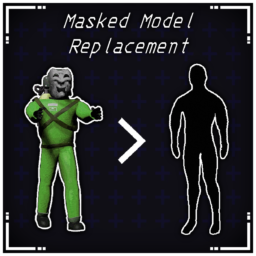
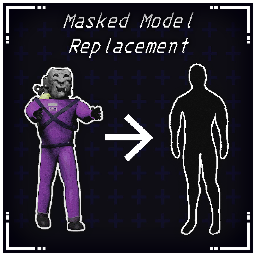
config file added

diff --git a/Patches/ModelReplacementPatch.cs b/Patches/ModelReplacementPatch.cs
@@ -43,27 +43,41 @@ namespace MaskedModelReplacement.Patches
                 var suitList = StartOfRound.Instance.unlockablesList.unlockables;
                 var allSuits = Resources.FindObjectsOfTypeAll<UnlockableSuit>()
                 .Where(suit => suit.IsSpawned)
+                .Where(suit => !MaskedModelReplacementBase.MaskedIgnoreSuits.Contains(suitList[suit.suitID].unlockableName.ToLower().Replace(" ", "")))
                 .ToArray();
-                int suitID = rand.Next(allSuits.Length);
 
-                string suitName = suitList[allSuits[suitID].suitID].unlockableName;
-                suitName = suitName.ToLower().Replace(" ", "");
+
                 
                 Dictionary<string, Type> regModelRepl = Traverse.Create(typeof(ModelReplacementAPI)).Field("RegisteredModelReplacements").GetValue() as Dictionary<string, Type>;
-                if (regModelRepl.ContainsKey(suitName))
+                    
+                if (MaskedModelReplacementBase.ModelReplacementsOnly)
                 {
-                    setReplacement = true;
-                    var hostPly = StartOfRound.Instance.allPlayerScripts[0];
-
-                    temporaryModel = hostPly.gameObject.AddComponent(regModelRepl[suitName]) as BodyReplacementBase;
-                    temporaryModel.suitName = suitName;
-                    modelReplacement = temporaryModel;
-                }
-                else {
-                    var target_suit = allSuits[suitID];
-                    ___enemyAI.SetSuit(target_suit.suitID);
+                    // filter further if ModelReplacementsOnly is set to true.
+                    allSuits = allSuits.Where(suit => regModelRepl.ContainsKey(suitList[suit.suitID].unlockableName.ToLower().Replace(" ", ""))).ToArray();
                 }
 
+                if (allSuits.Length > 0)
+                {
+                    int suitID = rand.Next(allSuits.Length);
+
+                    string suitName = suitList[allSuits[suitID].suitID].unlockableName;
+                    suitName = suitName.ToLower().Replace(" ", "");
+
+                    if (regModelRepl.ContainsKey(suitName))
+                    {
+                        setReplacement = true;
+                        var hostPly = StartOfRound.Instance.allPlayerScripts[0];
+
+                        temporaryModel = hostPly.gameObject.AddComponent(regModelRepl[suitName]) as BodyReplacementBase;
+                        temporaryModel.suitName = suitName;
+                        modelReplacement = temporaryModel;
+                    }
+                    else
+                    {
+                        var target_suit = allSuits[suitID];
+                        ___enemyAI.SetSuit(target_suit.suitID);
+                    }
+                }
                 NumSpawnedThisLevel++;
             }
 

diff --git a/Plugin.cs b/Plugin.cs
@@ -18,13 +18,18 @@ namespace MaskedModelReplacement
     {
         private const string modGUID = "CubeMath.MaskedModelReplacementMod";
         private const string modName = "Masked Model Replacement";
-        private const string modVersion = "1.0.1.0";
+        private const string modVersion = "1.1.0.0";
 
         private readonly Harmony harmony = new Harmony(modGUID);
 
         public static MaskedModelReplacementBase Instance;
 
         public new ManualLogSource Logger;
+
+        public static bool LogAvailableSuits;
+        public static bool ModelReplacementsOnly;
+        public static List<string> MaskedIgnoreSuits;
+        public static List<string> RackHideSuits;
 
         void Awake() {
             if (Instance == null) {
@@ -38,8 +43,32 @@ namespace MaskedModelReplacement
             
             modelReplacementPresent = Chainloader.PluginInfos.ContainsKey("meow.ModelReplacementAPI");
 
+
+
+            // handle configs
+            LogAvailableSuits = Config.Bind(
+                "General", "Log Available Suits", false,
+                "Log the unlockable names of the available suits into the console when you spawn in the ship.\n" +
+                "Names will be written in lowercase and spaces will be removed."
+            ).Value;
+            
+            ModelReplacementsOnly = Config.Bind(
+                "General", "Model Replacements Only", false,
+                "Masked enemies should only pick model replacements and ignore all suits that does not have a model replacement."
+            ).Value;
+
+            string mergedMaskedIgnoreSuits = Config.Bind(
+                "General", "Masked Ignore Suits", "",
+                "Comma separated list of suits that the masked enemy should be excluded.\n" +
+                "Example: \"default, greensuit, hazardsuit, pajamasuit, purplesuit, beesuit\""
+            ).Value;
+            MaskedIgnoreSuits = mergedMaskedIgnoreSuits.ToLower().Replace(" ", "").Split(',').Select(s => s.Trim()).ToList();
+            
+            
+            
             harmony.PatchAll(typeof(MaskedModelReplacementBase));
             harmony.PatchAll(typeof(MaskedPlayerEnemyPatch));
+            harmony.PatchAll(typeof(StartOfRoundPatch));
 
             if (modelReplacementPresent)
             {

diff --git a/Patches/StartOfRoundPatch.cs b/Patches/StartOfRoundPatch.cs
@@ -1,0 +1,37 @@
+using HarmonyLib;
+using System;
+using System.Collections.Generic;
+using System.Linq;
+using System.Runtime.CompilerServices;
+using System.Text;
+using System.Threading.Tasks;
+using UnityEngine.Rendering;
+using UnityEngine;
+
+namespace MaskedModelReplacement.Patches
+{
+    internal class StartOfRoundPatch
+    {
+        [HarmonyPatch(typeof(StartOfRound), "Start")]
+        [HarmonyPostfix]
+        [HarmonyPriority(Priority.Low)]
+        public static void StartOfRoundSuitPatch(StartOfRound __instance)
+        {
+            if (!MaskedModelReplacementBase.LogAvailableSuits) return;
+
+            StringBuilder sb = new StringBuilder("Available suits:\n");
+
+            int counter = 1;
+            var suitList = StartOfRound.Instance.unlockablesList.unlockables;
+
+            foreach (UnlockableItem suit in suitList)
+            {
+                if (suit.unlockableType != 0) continue;
+                sb.Append($"{counter}. {suit.unlockableName.ToLower().Replace(" ", "")}\n");
+                counter++;
+            }
+
+            MaskedModelReplacementBase.Instance.Logger.LogInfo(sb);
+        }
+    }
+}

diff --git a/Patches/MaskedPlayerEnemyPatch.cs b/Patches/MaskedPlayerEnemyPatch.cs
@@ -20,9 +20,11 @@ namespace MaskedModelReplacement.Patches
         {
             if (!MaskedModelReplacementBase.modelReplacementPresent) {
                 var rand = new System.Random(StartOfRound.Instance.randomMapSeed + NumSpawnedThisLevel);
+                var suitList = StartOfRound.Instance.unlockablesList.unlockables;
 
                 var allSuits = Resources.FindObjectsOfTypeAll<UnlockableSuit>()
                     .Where(suit => suit.IsSpawned)
+                    .Where(suit => !MaskedModelReplacementBase.MaskedIgnoreSuits.Contains(suitList[suit.suitID].unlockableName.ToLower().Replace(" ", "")))
                     .ToArray();
 
 

diff --git a/Properties/AssemblyInfo.cs b/Properties/AssemblyInfo.cs
@@ -32,5 +32,5 @@ using System.Runtime.InteropServices;
 // Sie können alle Werte angeben oder Standardwerte für die Build- und Revisionsnummern verwenden,
 // indem Sie "*" wie unten gezeigt eingeben:
 // [assembly: AssemblyVersion("1.0.*")]
-[assembly: AssemblyVersion("1.0.1.0")]
-[assembly: AssemblyFileVersion("1.0.1.0")]
+[assembly: AssemblyVersion("1.1.0.0")]
+[assembly: AssemblyFileVersion("1.1.0.0")]

diff --git a/README.md b/README.md
@@ -2,3 +2,24 @@
 When a masked enemy spawns from a vent, a random suit gets applied. This mod has ModelReplacementAPI support.
 
 Supports ModelReplacementAPI mod.
+
+# Configuration
+You can use the config file to filter the suits for the masked enemies.
+
+## Log Available Suits
+Log the unlockable names of the available suits into the console when you spawn in the ship.
+Names will be written in lowercase and spaces will be removed.
+
+Useful to find out what the names of the suits are for the **Masked Ignore Suits** configuration.
+
+## Model Replacements Only
+Masked enemies should only pick model replacements and ignore all suits that does not have a model replacement.
+
+The ModelReplacementAPI is a soft dependecy.
+When this configuration is enabled, the masked will only pick suits with a custom model.
+
+## Masked Ignore Suits
+Comma separated list of suits that the masked enemy should be excluded.
+Example: "default, greensuit, hazardsuit, pajamasuit, purplesuit, beesuit"
+
+Use the **Log Available Suits** config to find out what the names of the suits are.

diff --git a/CHANGELOG.md b/CHANGELOG.md
@@ -1,3 +1,12 @@
+# 1.1.0
+- Do you like configurations?
+- Config file added to filter the suits for the masked enemies
+- The config file contains these configurations:
+  - Log Available Suits
+  - Model Replacements Only
+  - Masked Ignore Suits
+- icon.png updated
+
 # 1.0.1
 - Source code added and make sure that the binary name match.
 
